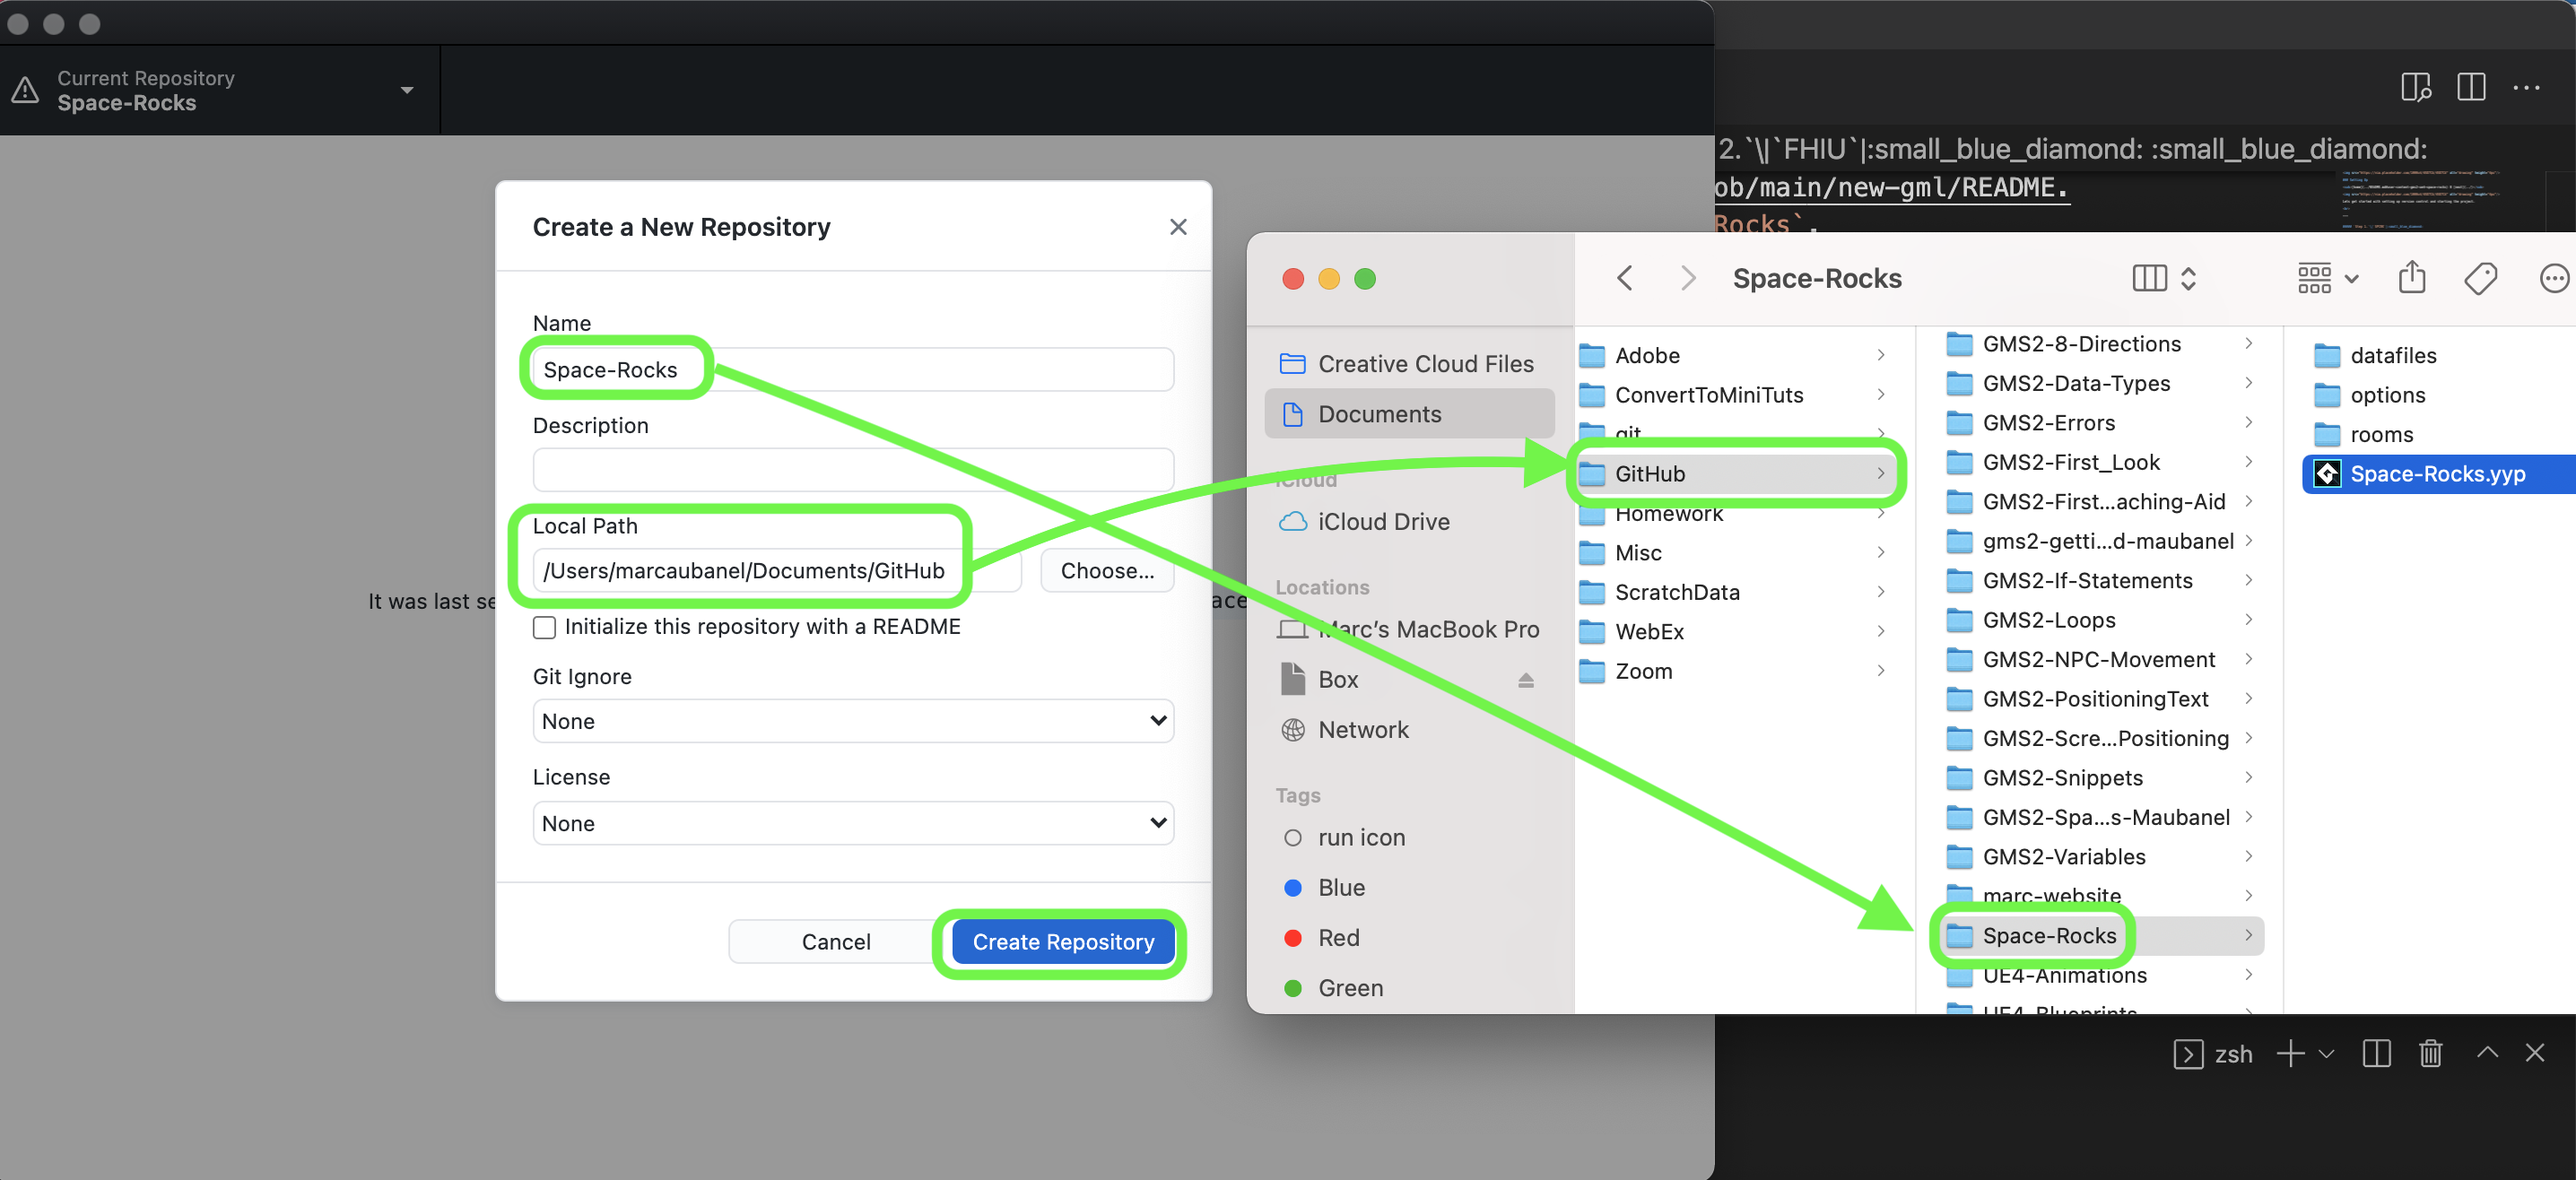
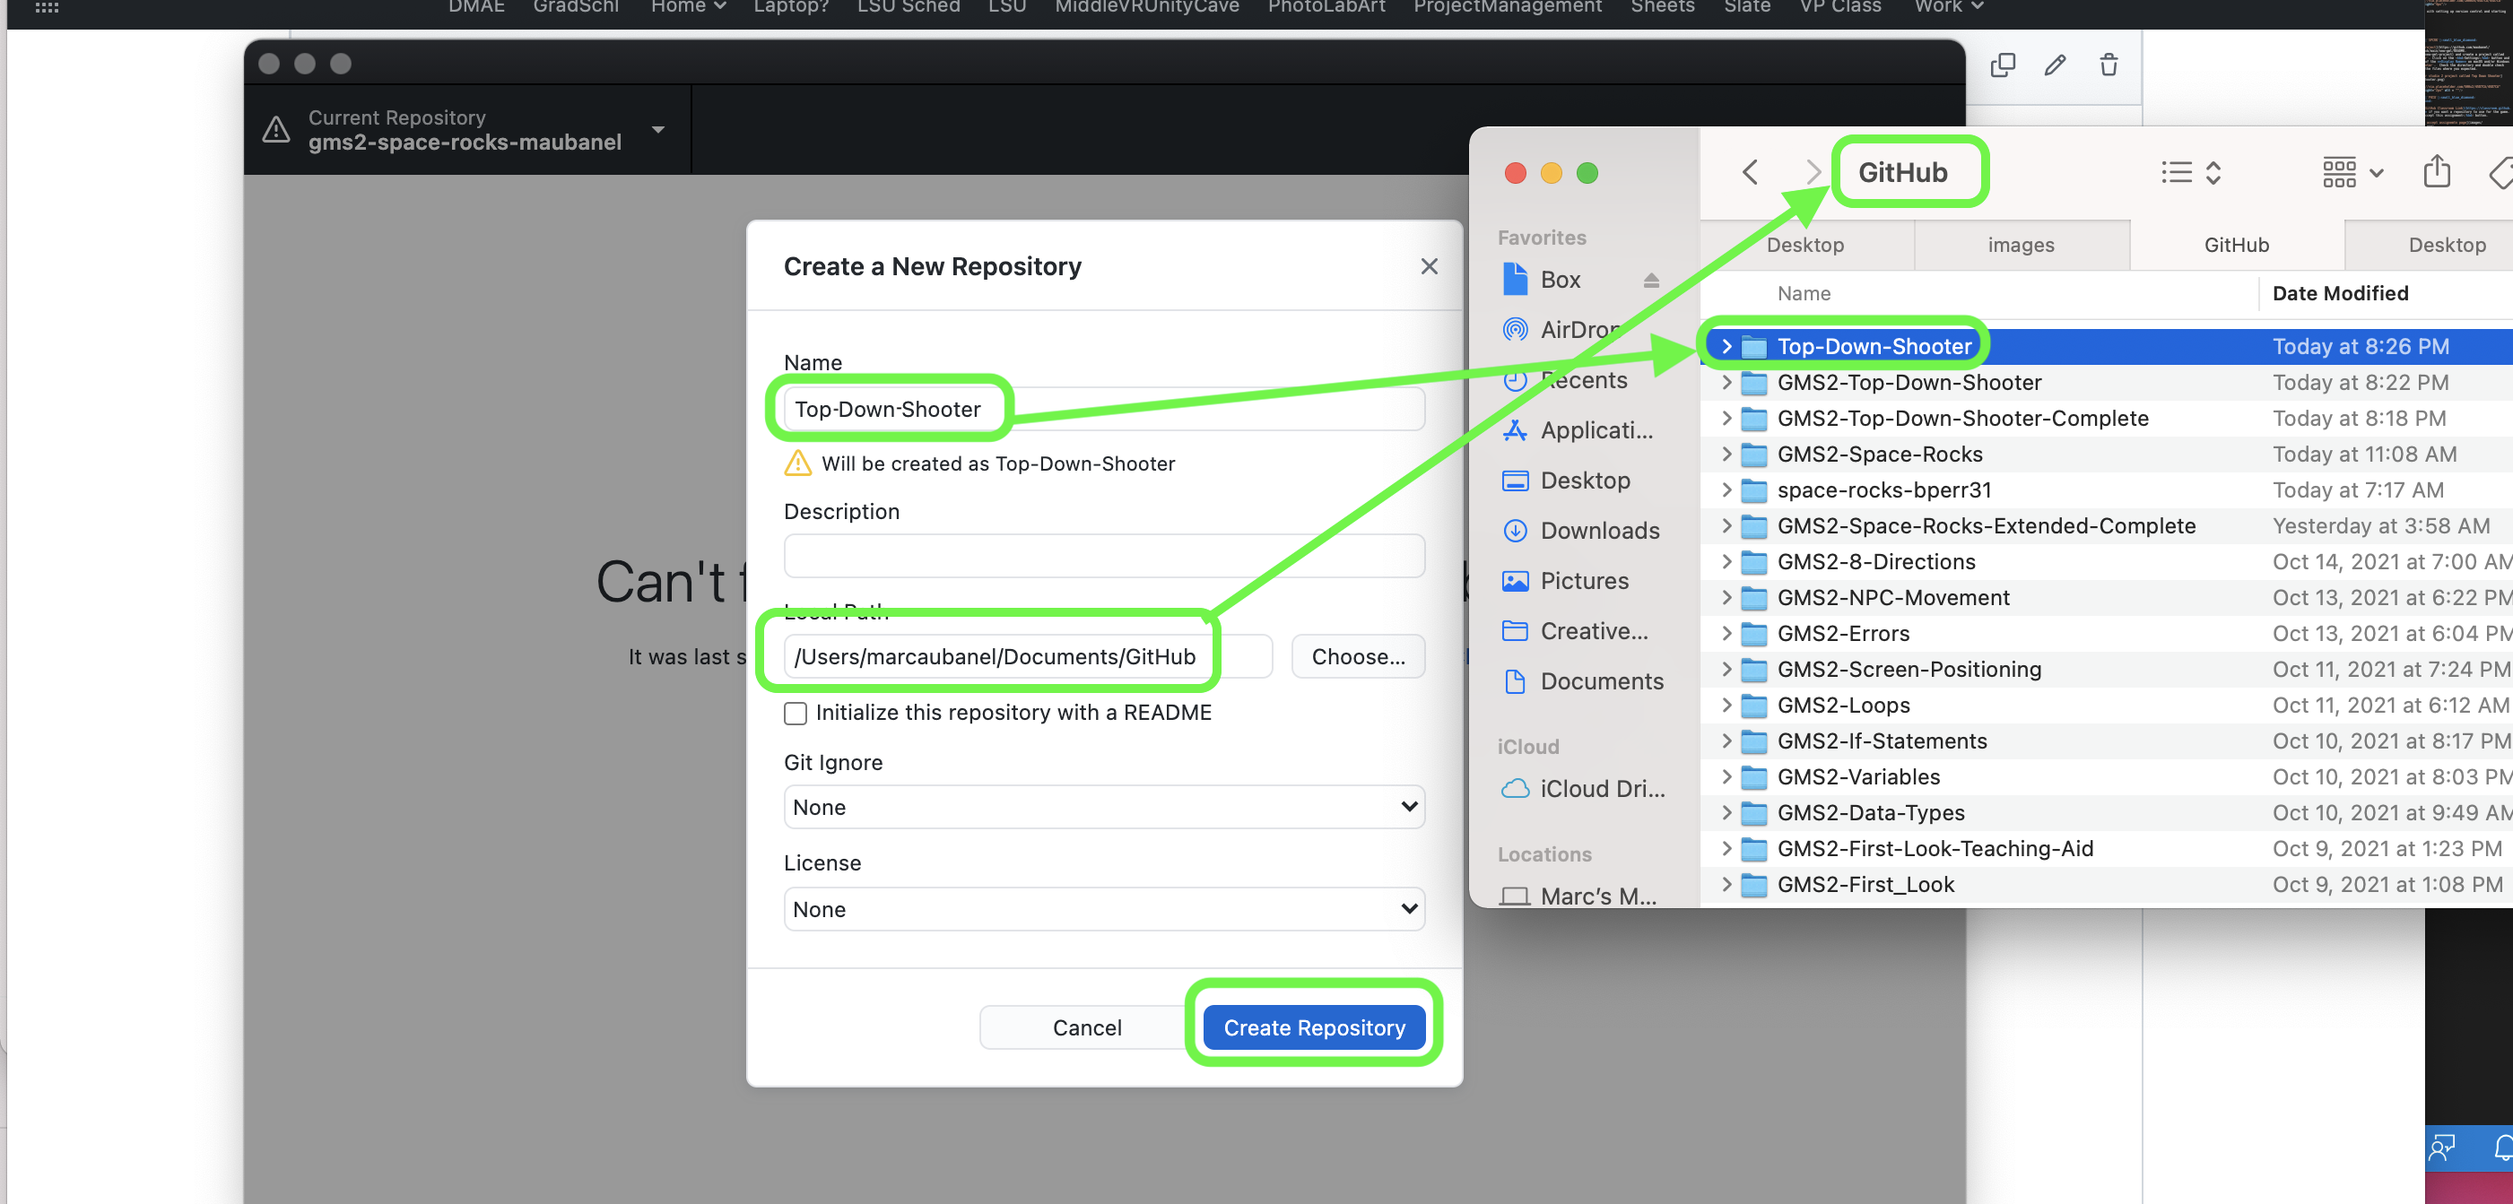
Update top down shooter

diff --git a/setting-up/README.md b/setting-up/README.md
@@ -55,7 +55,7 @@ You get to your empty repository on **GitHub**.
 
 ##### `Step 6.`\|`SPCRK`| :small_orange_diamond: :small_blue_diamond:
 
-Open up **GitHub Desktop** and select **File | New Repository** to create a **GitHub** repository inside the **Top Down Shooter** project you just created.
+Open up **GitHub Desktop** and select **File | New Repository** to create a **GitHub** repository inside the **Top-Down -Shooter** project you just created.
 
 ![alt_text](images/fileNewRepository.png)
 
